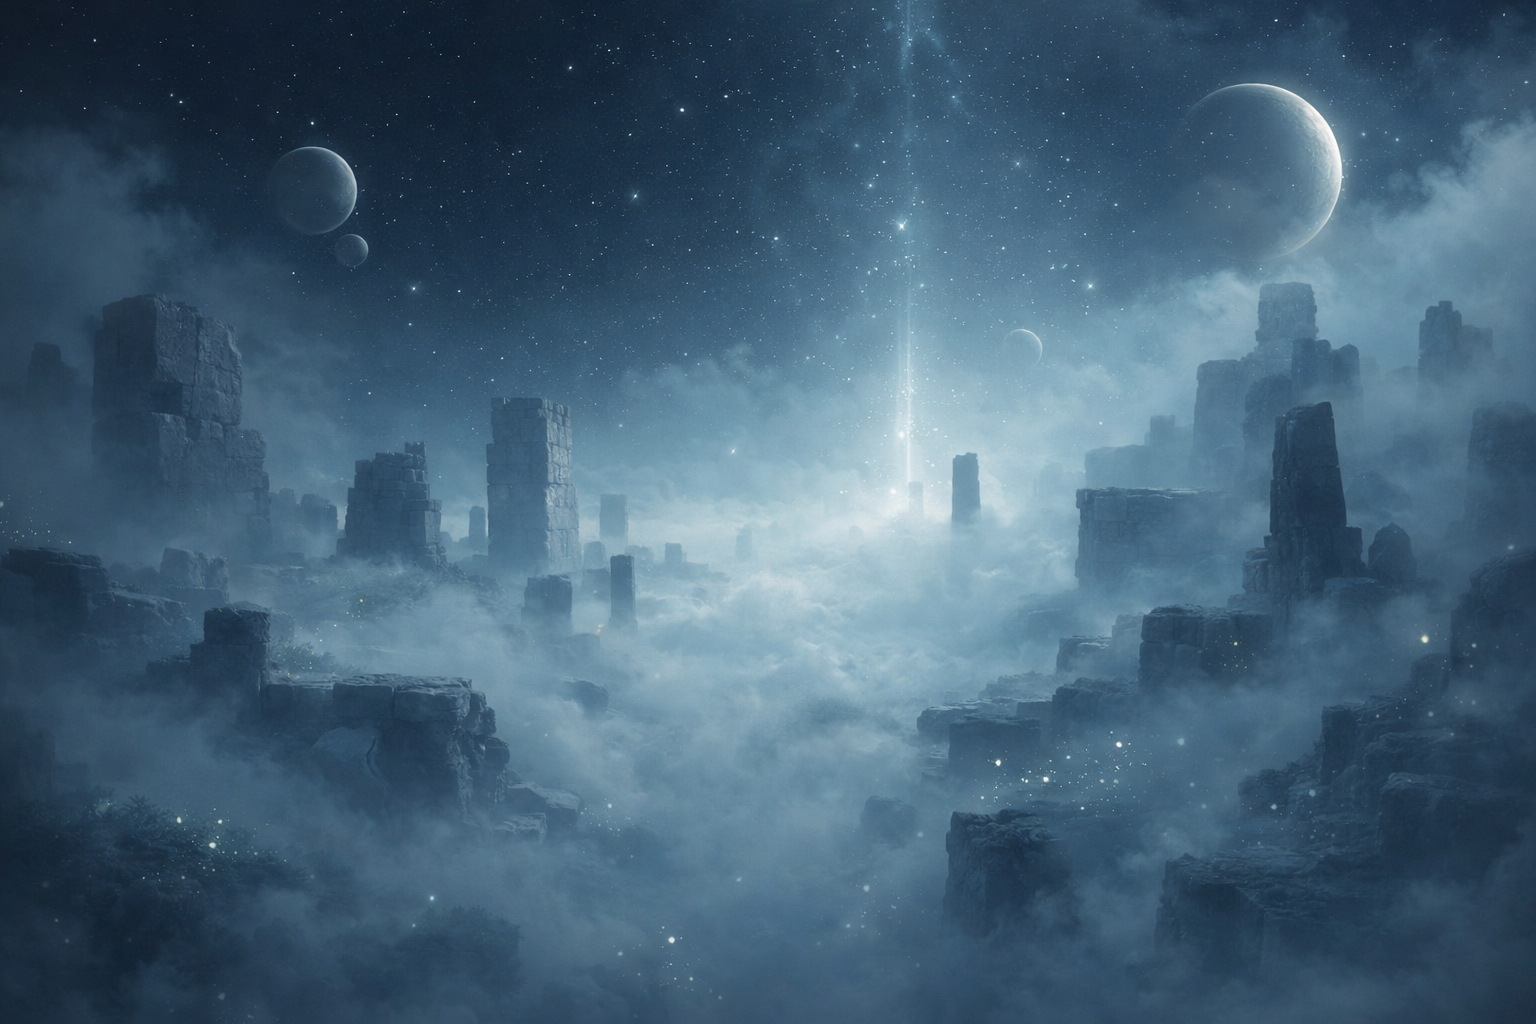
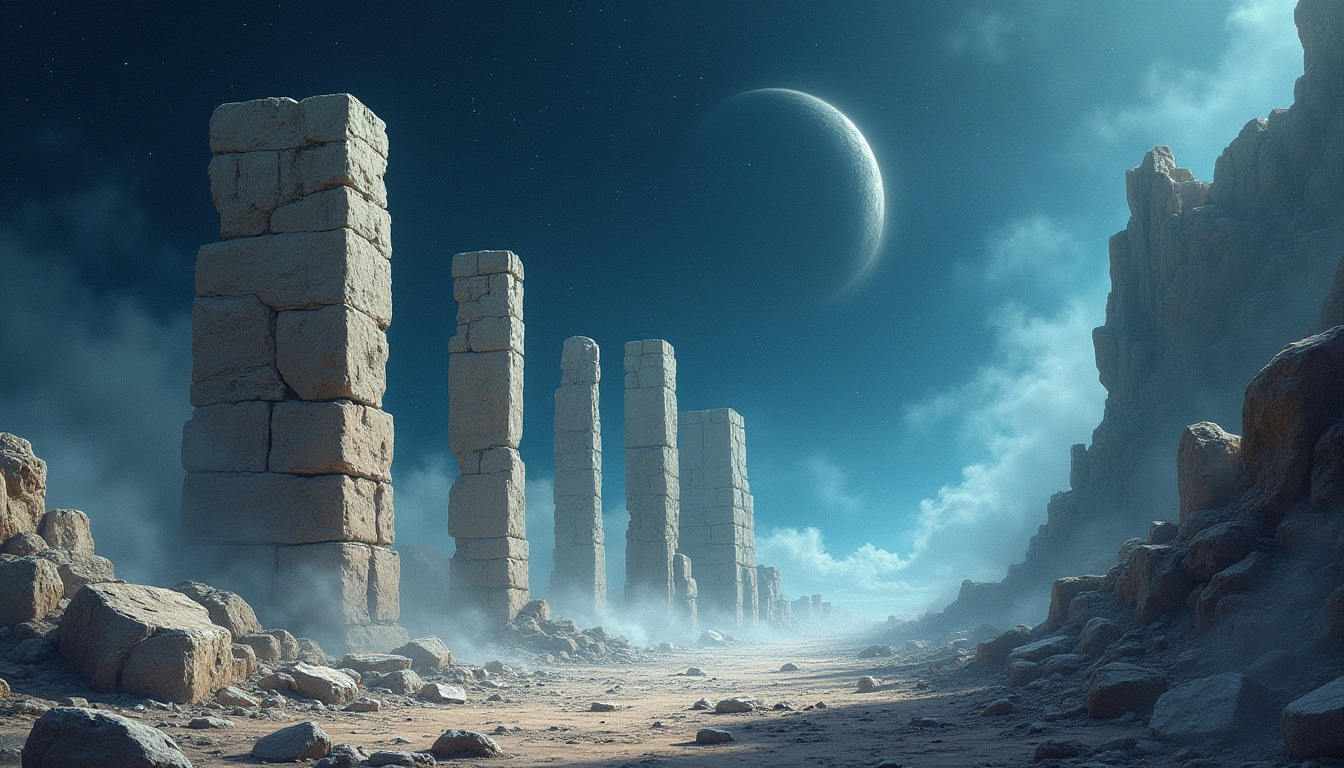
updated background

diff --git a/app/layout.tsx b/app/layout.tsx
@@ -2,7 +2,8 @@ import type { Metadata } from "next";
 import { Geist, Geist_Mono, Space_Grotesk } from "next/font/google";
 import "./globals.css";
 import { NapszakInitializer } from "@/components/NapszakInitializer";
-import FractalLayerGate from "@/components/FractalLayerGate";
+// import FractalLayerGate from "@/components/FractalLayerGate";
+import BackgroundLayerGate from "@/components/BackgroundLayerGate";
 
 const geistSans = Geist({
   variable: "--font-geist-sans",
@@ -30,7 +31,7 @@ export default function RootLayout({ children }: { children: React.ReactNode }) 
     <html lang="hu">
       <body className={`${geistSans.variable} ${geistMono.variable} ${spaceGrotesk.variable} antialiased`}>
         <NapszakInitializer />
-        <FractalLayerGate />
+        <BackgroundLayerGate />
         <main style={{ position: "relative", zIndex: 1 }}>{children}</main>
 
       </body>
